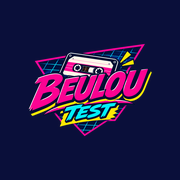
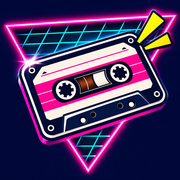
Suppression de session fiable, volets sans défilement du fond, nouvelle icône cassette
- Suppression : continue même si le dossier d'images est inaccessible ; bouton en attente au lieu d'un texte ; message clair en cas d'échec
- Volets et pop-ins : la page derrière ne défile plus
- Icônes (appli, iPhone, Android, favicon) tirées du nouveau logo cassette, recadrées serré ; cache de l'appli renouvelé

diff --git a/index.html b/index.html
@@ -2,6 +2,7 @@
 <html lang="fr"><head><meta charset="utf-8">
 <meta name="viewport" content="width=device-width,initial-scale=1,viewport-fit=cover">
 <meta name="theme-color" content="#0a0f3a">
+<link rel="icon" type="image/png" href="favicon.png">
 <link rel="apple-touch-icon" href="apple-touch-icon.png">
 <meta name="apple-mobile-web-app-capable" content="yes">
 <meta name="mobile-web-app-capable" content="yes">
@@ -302,6 +303,12 @@ select.in{appearance:none}
 .adm .c.a-inst{display:flex;align-items:center;gap:12px;border-color:rgba(255,230,0,.45);background:linear-gradient(120deg,rgba(255,10,140,.16),var(--n2) 60%)}
 .a-inst img{width:48px;height:48px;border-radius:12px;flex:none}.a-inst .f{flex:1;min-width:0}.a-inst b{display:block;font:800 15px Poppins}.a-inst small{display:block;font:500 12px/1.4 Poppins;color:var(--mut)}
 .a-inst .shr{display:inline-grid;place-items:center;vertical-align:-3px;color:var(--c)}
+/* volet ou pop-in ouvert : la page derrière ne défile plus */
+html:has(.g-ov,.ov),body:has(.g-ov,.ov){overflow:hidden;overscroll-behavior:none}
+.g-ov,.ov{overscroll-behavior:contain;touch-action:none}.g-sh,.md{touch-action:pan-y;overscroll-behavior:contain}
+/* bouton en cours de suppression */
+.a-ico.busy{opacity:.6;cursor:wait;animation:bz 1s linear infinite}.a-ico.busy svg{opacity:.35}
+@keyframes bz{50%{box-shadow:0 0 0 4px rgba(255,92,122,.35)}}
 /* pop-in QR code */
 .md.qrm{max-width:400px;padding:0 0 18px;overflow:hidden;text-align:center;border:2px solid var(--c);background:radial-gradient(ellipse at 50% 20%,#141b5c,#060a2a 80%);box-shadow:0 0 0 3px var(--p),0 0 60px rgba(0,232,255,.3);animation:eqin .4s cubic-bezier(.2,1.5,.4,1)}
 .qrm-l{margin:18px 0 4px}.qrm-l img{height:96px;max-width:80%;object-fit:contain;filter:drop-shadow(0 4px 12px rgba(0,0,0,.6))}
@@ -1043,7 +1050,8 @@ function flush(key){
 }
 /* suppression complète d'une session : équipes, images, puis la session */
 async function delSession(id){const ref=fs.collection('bt_sessions').doc(id);
- for(const c of['teams','imgs']){const q=await ref.collection(c).get(),bt=fs.batch();q.docs.forEach(d=>bt.delete(d.ref));if(q.docs.length)await bt.commit()}
+ // équipes et images d'abord ; si un dossier est inaccessible (règles Firebase), on continue quand même
+ for(const c of['teams','imgs']){try{const q=await ref.collection(c).get(),bt=fs.batch();q.docs.forEach(d=>bt.delete(d.ref));if(q.docs.length)await bt.commit()}catch(e){console.warn('suppression '+c+' :',e.code||e)}}
  await ref.delete()}
 async function delTeams(){const bt=fs.batch();teams.forEach(x=>bt.delete(tcol().doc(x.id)));await bt.commit();mk={};gk={}}
 async function resetRound(r){
@@ -1171,11 +1179,11 @@ document.addEventListener('click',async e=>{
  if(a==='resetround'&&confirm('Réinitialiser '+RNf(r)+' ? Réponses, x2 et points de cette manche seront effacés.'))resetRound(r);
  if(a==='clrteams'&&confirm('Effacer toutes les équipes et leurs réponses ?'))delTeams();
  if(a==='reset'&&confirm('Tout remettre à zéro (équipes, réponses, points, état des manches) ? Les questions sont conservées.')){await delTeams();await sdoc().update({r:-1,th:{},rd:{},cs:{},pl:{},fz:FV.delete(),tb:FV.delete(),tbp:FV.delete(),over:FV.delete()})}
- if(a==='delsess'&&confirm('Supprimer définitivement cette session ?')){const id=sid;view='list';bind(null);await delSession(id);render()}
+ if(a==='delsess'&&confirm('Supprimer définitivement cette session ?')){const id=sid;view='list';bind(null);try{await delSession(id)}catch(e){alert('Suppression impossible : '+(e.message||e))}render()}
  if(a==='sren'){renS=b.dataset.id;const S=sessions.find(x=>x.id===renS);draft['sr|'+renS]=S?.name||'';render();setTimeout(()=>{const el=document.querySelector(`[data-k="sr|${renS}"]`);if(el){el.focus();el.select()}},30)}
  if(a==='srx'){renS=null;render()}
  if(a==='srok'){const id=b.dataset.id,n=(draft['sr|'+id]||'').trim();if(!n)return;await fs.collection('bt_sessions').doc(id).update({name:n});delete draft['sr|'+id];renS=null;render()}
- if(a==='sdel'){const S=sessions.find(x=>x.id===b.dataset.id);if(S&&confirm(`Supprimer définitivement la session « ${S.name||'Sans nom'} » ?\n\nLes équipes, leurs réponses, les points et les images seront effacés. Cette action est irréversible.`)){b.disabled=true;b.textContent='Suppression…';await delSession(S.id)}}
+ if(a==='sdel'){const S=sessions.find(x=>x.id===b.dataset.id);if(S&&confirm(`Supprimer définitivement la session « ${S.name||'Sans nom'} » ?\n\nLes équipes, leurs réponses, les points et les images seront effacés. Cette action est irréversible.`)){b.disabled=true;b.classList.add('busy');b.setAttribute('aria-busy','true');try{await delSession(S.id)}catch(e){b.disabled=false;b.classList.remove('busy');alert('Suppression impossible : '+(e.message||e))}}}
 });
 })();
 </script></body></html>

diff --git a/sw.js b/sw.js
@@ -1,8 +1,8 @@
 /* Beulou Test : service worker de la webapp admin.
    Réseau d'abord (toujours la dernière version), copie locale en secours hors connexion.
    Firebase, Deezer et les autres sites ne passent pas par ici. */
-const CACHE = 'beulou-v1';
-const BASE = ['./', './index.html', './logo.png', './icon-192.png', './icon-512.png', './manifest.webmanifest'];
+const CACHE = 'beulou-v2';
+const BASE = ['./', './index.html', './logo.png', './icon-192.png', './icon-512.png', './favicon.png', './manifest.webmanifest'];
 self.addEventListener('install', e => {
   e.waitUntil(caches.open(CACHE).then(c => c.addAll(BASE)).then(() => self.skipWaiting()));
 });
